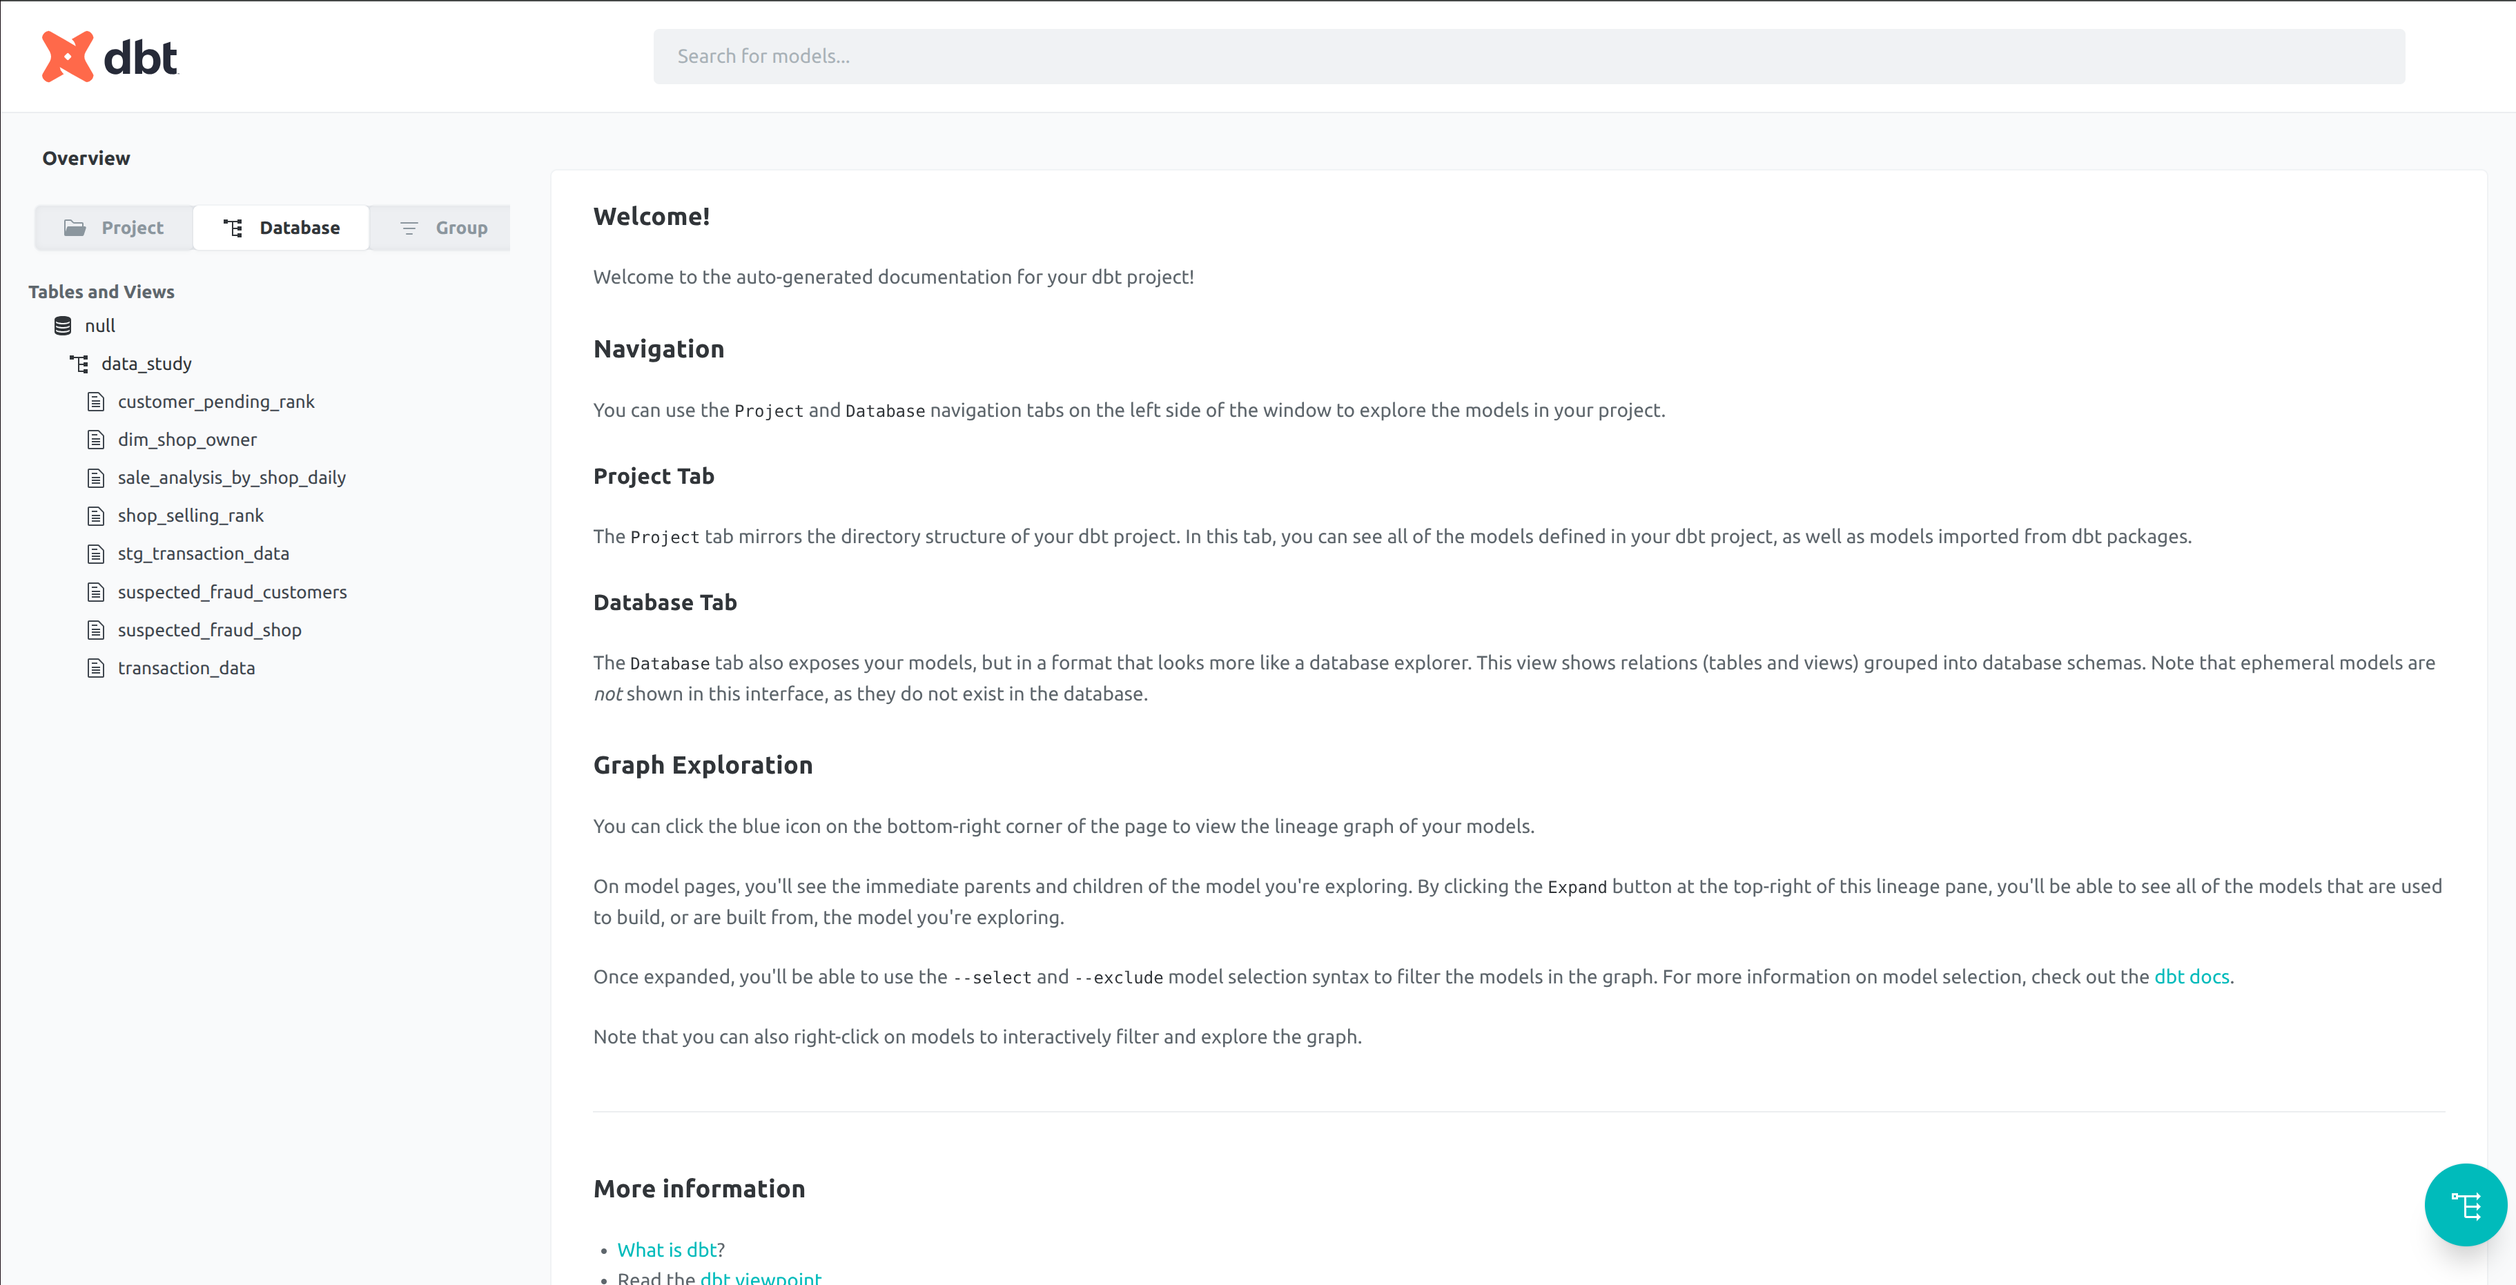
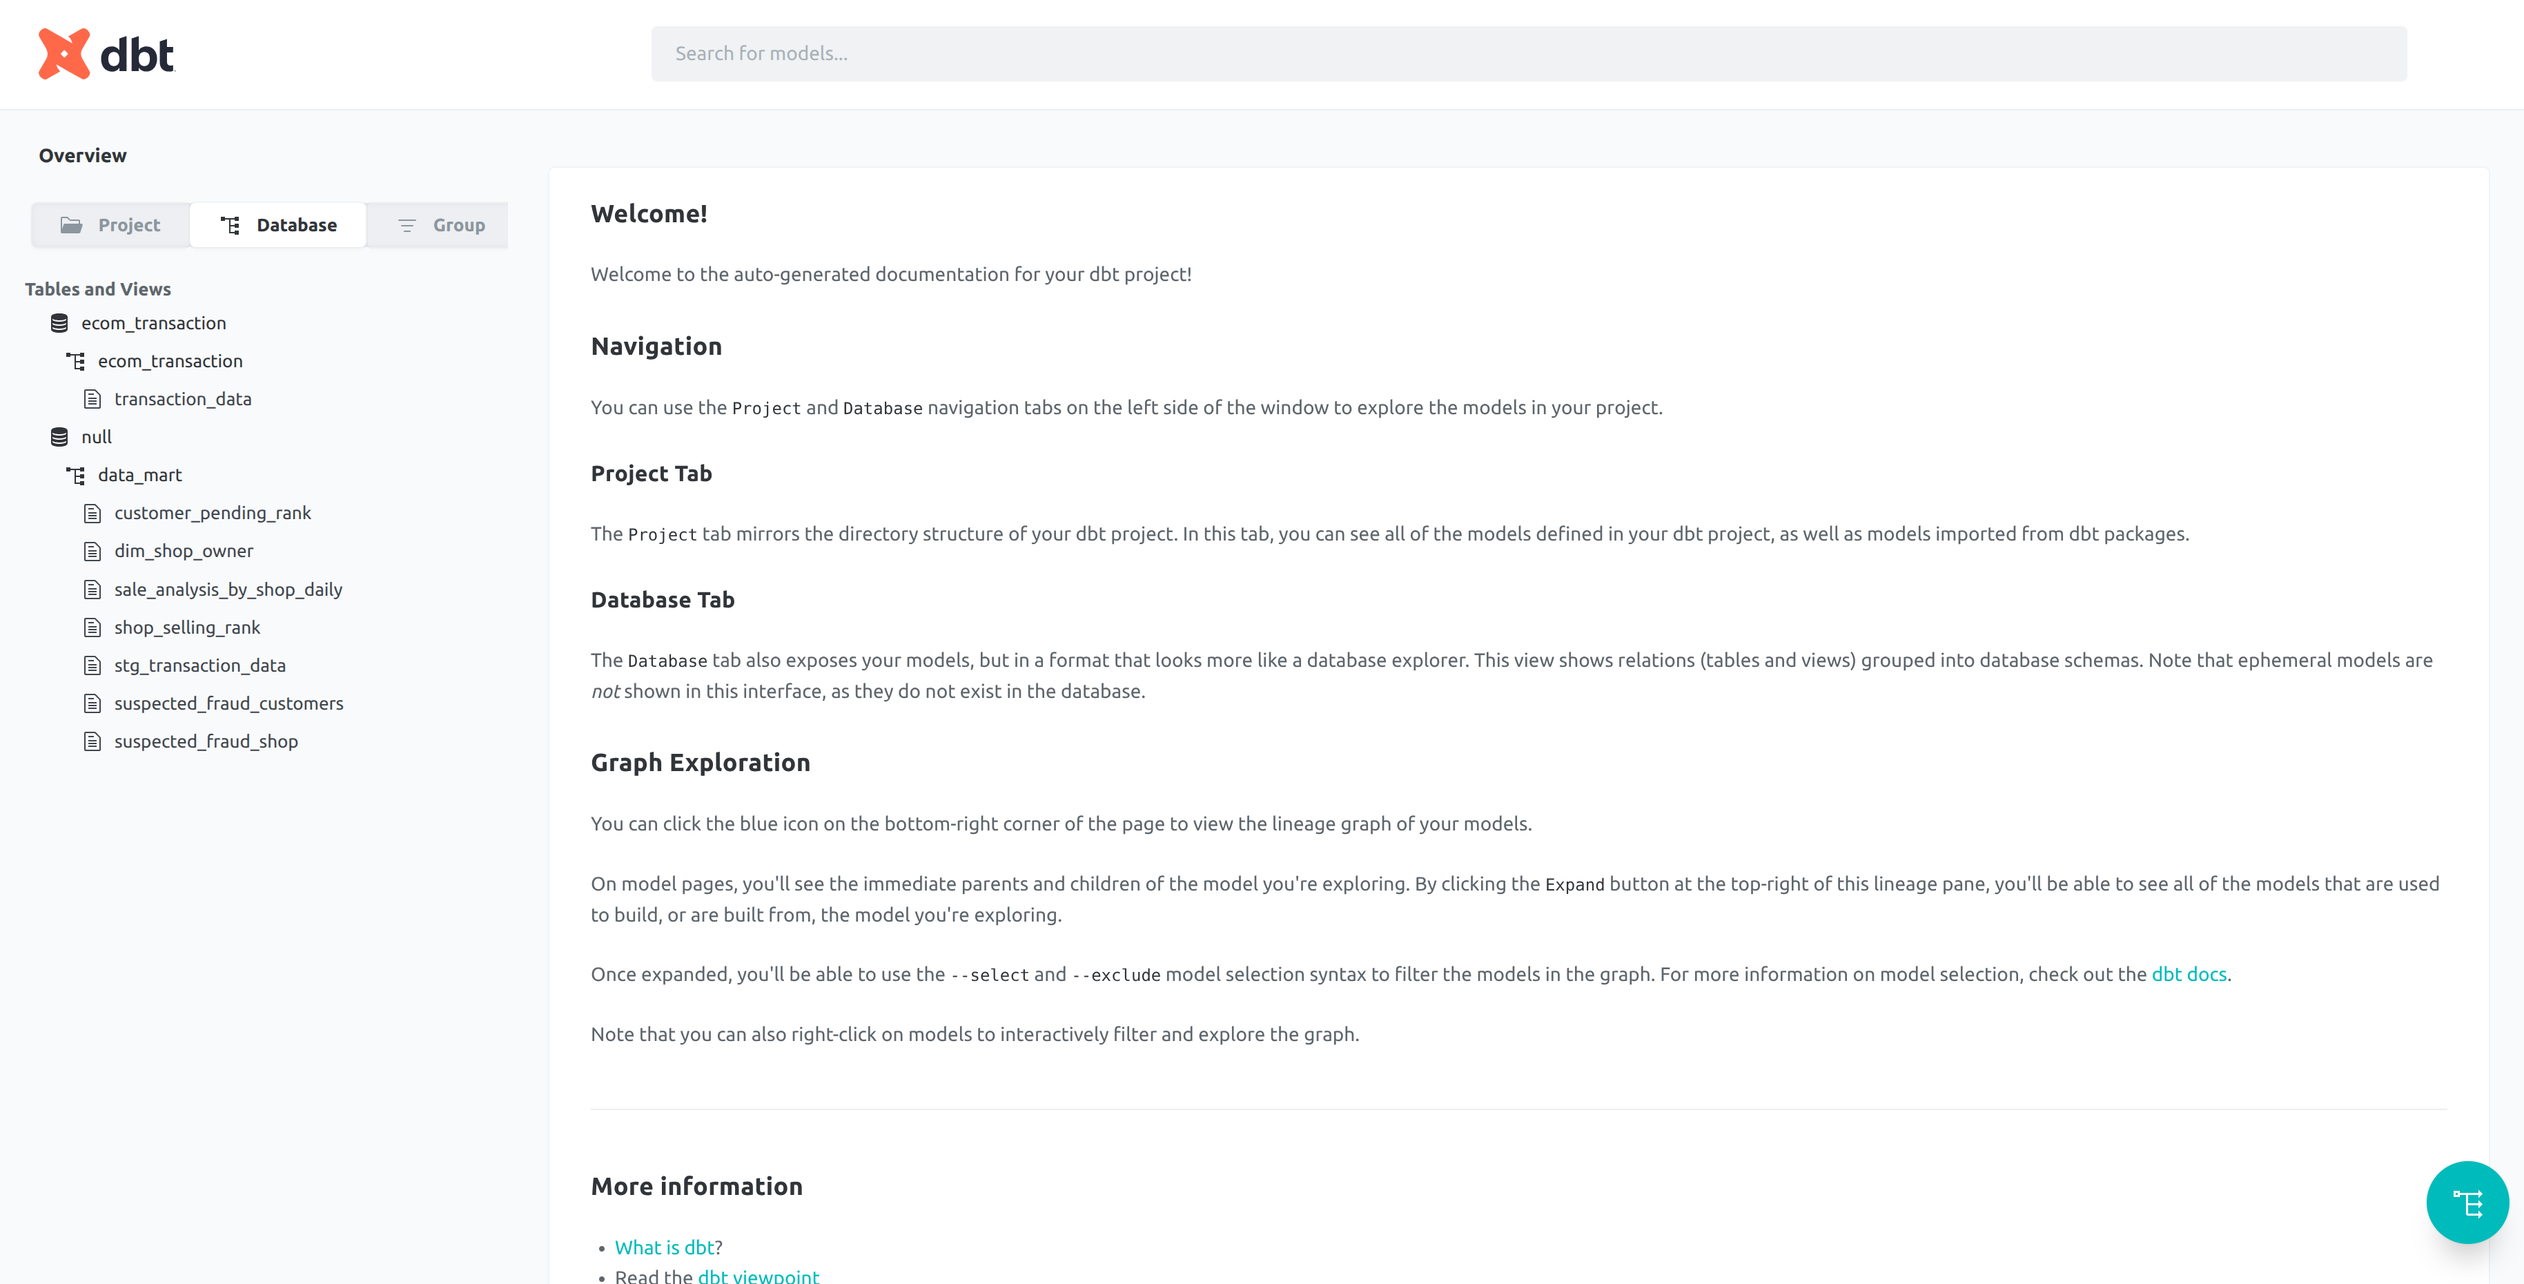
branch:main build docker compose for mysql database, update readme and code to suitable for mysql built by docker

diff --git a/import_raw_data.py b/import_raw_data.py
@@ -1,0 +1,138 @@
+import os
+import pandas as pd
+from sqlalchemy import create_engine
+from sqlalchemy.pool import NullPool
+import time
+from mysql.connector.errors import ProgrammingError
+from _001_config._00101_database_config import *
+
+# Các thông số kết nối
+DB_HOST = URL_MYSQL["properties"]["host"]
+DB_PORT = URL_MYSQL["properties"]["port"]
+DB_USER = URL_MYSQL["properties"]["user"]
+DB_PASSWORD = URL_MYSQL["properties"]["password"]
+DB_DATABASE = URL_MYSQL["properties"]["database"]
+DATA_FOLDER = "data_sample"
+
+def create_db_engine():
+    """Tạo engine kết nối tới MySQL container với cơ chế thử lại (retry)."""
+    # Sử dụng driver pymysql cho SQLAlchemy
+    db_url = f"mysql+pymysql://{DB_USER}:{DB_PASSWORD}@{DB_HOST}:{DB_PORT}/{DB_DATABASE}?charset=utf8mb4"
+    max_retries = 5
+    
+    for attempt in range(max_retries):
+        try:
+            print(f"[{time.strftime('%H:%M:%S')}] Đang thử kết nối MySQL (Lần {attempt + 1}/{max_retries})...")
+            engine = create_engine(
+                db_url,
+                pool_pre_ping=True,  # Kiểm tra connection trước khi sử dụng
+                pool_recycle=3600,   # Recycle connection sau 1 giờ
+                echo=False
+            )
+            
+            # Thử kết nối để kiểm tra ngay lập tức
+            with engine.connect() as connection:
+                print(f"[{time.strftime('%H:%M:%S')}] Kết nối thành công tới database: {DB_DATABASE}")
+                return engine
+        except Exception as e:
+            print(f"[{time.strftime('%H:%M:%S')}] Lỗi kết nối: {e}")
+            if attempt < max_retries - 1:
+                # Chờ 5 giây trước khi thử lại
+                time.sleep(5)
+            else:
+                raise ConnectionError("Không thể kết nối tới MySQL sau nhiều lần thử.")
+    return None
+
+
+def load_csv_to_mysql(engine):
+    """Đọc tất cả file CSV trong thư mục data_sample và đẩy vào MySQL."""
+    if not os.path.exists(DATA_FOLDER):
+        print(f"[{time.strftime('%H:%M:%S')}] LỖI: Thư mục '{DATA_FOLDER}' không tồn tại. Vui lòng tạo thư mục và thêm file CSV.")
+        return
+
+    print(f"[{time.strftime('%H:%M:%S')}] Bắt đầu quá trình tải dữ liệu từ thư mục '{DATA_FOLDER}'...")
+    
+    # Lấy danh sách file CSV và sắp xếp
+    csv_files = sorted([f for f in os.listdir(DATA_FOLDER) if f.endswith(".csv")])
+    
+    if not csv_files:
+        print(f"[{time.strftime('%H:%M:%S')}] CẢNH BÁO: Không tìm thấy file CSV nào trong thư mục '{DATA_FOLDER}'.")
+        return
+    
+    print(f"[{time.strftime('%H:%M:%S')}] Tìm thấy {len(csv_files)} file CSV để xử lý.")
+    
+    for filename in csv_files:
+        filepath = os.path.join(DATA_FOLDER, filename)
+        table_name = filename.replace(".csv", "").lower()
+        
+        print("-" * 50)
+        print(f"[{time.strftime('%H:%M:%S')}] Đang xử lý file: {filename} -> Tải vào bảng: {table_name}")
+        
+        try:
+            # Đọc CSV với encoding utf-8, nếu lỗi thử latin1
+            try:
+                df = pd.read_csv(filepath, encoding='utf-8')
+            except UnicodeDecodeError:
+                print(f"[{time.strftime('%H:%M:%S')}] Thử đọc với encoding latin1...")
+                df = pd.read_csv(filepath, encoding='latin1')
+            
+            # Chuẩn hóa tên cột
+            df.columns = [col.lower().strip().replace(' ', '_').replace('-', '_') for col in df.columns]
+            
+            # Loại bỏ các ký tự đặc biệt trong tên cột
+            df.columns = [''.join(c if c.isalnum() or c == '_' else '_' for c in col) for col in df.columns]
+            
+            print(f"[{time.strftime('%H:%M:%S')}] Số lượng dòng được đọc: {len(df)}")
+            print(f"[{time.strftime('%H:%M:%S')}] Các cột: {', '.join(df.columns)}")
+            
+            # Xử lý giá trị null
+            df = df.where(pd.notnull(df), None)
+            
+            start_time = time.time()
+            
+            # Tạo connection string để truyền trực tiếp vào to_sql
+            
+            db_url = f"mysql+pymysql://{DB_USER}:{DB_PASSWORD}@{DB_HOST}:{DB_PORT}/{DB_DATABASE}?charset=utf8mb4"
+            engine = create_engine(db_url)
+            
+            df.to_sql(
+                name=table_name,
+                con=engine,
+                if_exists='replace',
+                index=False,
+                chunksize=5000
+            )
+            
+            end_time = time.time()
+            
+            print(f"[{time.strftime('%H:%M:%S')}] HOÀN THÀNH. Đã tải {len(df)} dòng vào bảng '{table_name}'.")
+            print(f"[{time.strftime('%H:%M:%S')}] Thời gian tải: {end_time - start_time:.2f} giây.")
+
+        except ProgrammingError as e:
+            print(f"[{time.strftime('%H:%M:%S')}] LỖI SQL khi tải '{filename}': {e}")
+        except pd.errors.EmptyDataError:
+            print(f"[{time.strftime('%H:%M:%S')}] LỖI: File '{filename}' rỗng hoặc không có dữ liệu.")
+        except Exception as e:
+            print(f"[{time.strftime('%H:%M:%S')}] LỖI chung khi xử lý '{filename}': {e}")
+            import traceback
+            traceback.print_exc()
+
+if __name__ == "__main__":
+    try:
+        # Bước 1: Tạo engine kết nối
+        mysql_engine = create_db_engine()
+        
+        # Bước 2: Tải dữ liệu
+        if mysql_engine:
+            load_csv_to_mysql(mysql_engine)
+            print(f"\n[{time.strftime('%H:%M:%S')}] Quá trình tải dữ liệu hoàn tất.")
+            
+            # Đóng engine
+            mysql_engine.dispose()
+            
+    except ConnectionError as e:
+        print(f"\n[{time.strftime('%H:%M:%S')}] THẤT BẠI: {e}")
+    except Exception as e:
+        print(f"\n[{time.strftime('%H:%M:%S')}] Đã xảy ra lỗi không xác định: {e}")
+        import traceback
+        traceback.print_exc()

diff --git a/main.py b/main.py
@@ -1,6 +1,6 @@
 from fastapi import FastAPI, Depends, HTTPException
-from mysql_connection import get_db_connection
-from api_authentication import verify_credentials
+from _001_config._00101_database_config import get_db_connection
+from _002_utils.api_authentication import verify_credentials
 
 app = FastAPI()
 
@@ -16,7 +16,7 @@ def campaign_summary(user: str = Depends(verify_credentials)):
            sum(gmv) as total_gmv, 
            sum(case when rebate > 0 then 1 else 0 end) as total_rebate_vouchers,
            sum(rebate) as total_rebate_values 
-    from transaction_data
+    from ecom_transaction.transaction_data
     """
     cursor.execute(query)
     rows = cursor.fetchall()   # return all results
@@ -31,7 +31,7 @@ def read_customers_ranking(customer_id: int):
     conn = get_db_connection()
     cursor = conn.cursor(dictionary=True)
 
-    query = "SELECT * FROM customer_pending_rank WHERE customerID = %s"
+    query = "SELECT * FROM data_mart.customer_pending_rank WHERE customerID = %s"
     cursor.execute(query, (customer_id,))
     rows = cursor.fetchall()   # return all results
 
@@ -49,7 +49,7 @@ def read_shops_ranking(shop_id: int):
     conn = get_db_connection()
     cursor = conn.cursor(dictionary=True)
 
-    query = "SELECT * FROM shop_selling_rank WHERE shop_id = %s"
+    query = "SELECT * FROM data_mart.shop_selling_rank WHERE shop_id = %s"
     cursor.execute(query, (shop_id,))
     rows = cursor.fetchall()   # return all results
 
@@ -67,7 +67,7 @@ def read_fraud_customer(customer_id: int):
     conn = get_db_connection()
     cursor = conn.cursor(dictionary=True)
 
-    query = "SELECT * FROM suspected_fraud_customers WHERE customer_id = %s"
+    query = "SELECT * FROM data_mart.suspected_fraud_customers WHERE customer_id = %s"
     cursor.execute(query, (customer_id,))
     rows = cursor.fetchall()   # return all results
 
@@ -85,7 +85,7 @@ def read_fraud_shop(shop_id: int):
     conn = get_db_connection()
     cursor = conn.cursor(dictionary=True)
 
-    query = "SELECT * FROM suspected_fraud_shop WHERE shop_id = %s"
+    query = "SELECT * FROM data_mart.suspected_fraud_shop WHERE shop_id = %s"
     cursor.execute(query, (shop_id,))
     rows = cursor.fetchall()   # return all results
 

diff --git a/_001_config/_00101_database_config.py b/_001_config/_00101_database_config.py
@@ -1,0 +1,21 @@
+import mysql.connector
+
+URL_MYSQL = {
+    "url": "jdbc:mysql://localhost:3307/ecom_transaction",
+    "properties": {
+        "host": "localhost",
+        "port": 3307,
+        "user": "root",
+        "password": "123", 
+        "database": "ecom_transaction"
+    }
+}
+def get_db_connection():
+    conn = mysql.connector.connect(
+        host="localhost",        
+        port=3307,
+        user="root",            
+        password="123",
+        database="ecom_transaction"    
+    )
+    return conn

diff --git a/_002_utils/api_authentication.py b/_002_utils/api_authentication.py
@@ -1,6 +1,6 @@
 from fastapi import Depends, HTTPException, status
 from fastapi.security import HTTPBasic, HTTPBasicCredentials
-from logger import logger
+from _002_utils.logger import logger
 
 security = HTTPBasic()
 

diff --git a/README.md b/README.md
@@ -18,6 +18,7 @@ The dataset was collected from a discount campaign on an e-commerce platform, co
 After gathering the campaign transaction data, the following steps were implemented:
 
 ### ⚙ Overview of the Implementation Steps:
+- Built MySQL database by using docker-compose.
 - Used **DBT (Data Build Tool)** to process and transform data from the raw transaction table (tbl transaction_data):
     - Transformed into a table storing shop and shop owner information (**tbl dim_shop_owner**).
     - Transformed into a table storing customer information such as total spending, ranking, and classification (Gold, Silver, Bronze) (**tbl customer_pending_rank**).
@@ -34,34 +35,72 @@ After gathering the campaign transaction data, the following steps were implemen
   
 ## Detailed Project Demo Guide
 
-1. First, clone this repository from GitHub to your local machine. Then, set up a MySQL database (version 8.0) running on localhost:3306. Next, create a database named data_study and import the transaction_data.csv file from the data_sample folder into it.
-
-![importdata](./image/importdata.png)
-
-2. Next, create a new virtual environment to prepare for the demo. Note that the demo will be conducted on an ***Ubuntu environment using Anaconda***. If you are working on a different operating system or environment, please adapt the commands accordingly.
-
+1. First, clone this repository from GitHub to your local machine. Next, create a new virtual environment to prepare for the demo. Note that the demo will be conducted on an ***Using Anaconda***. If you are working on a different operating system or environment, please please skip this step. 
 ```bash
+# create evironment
 conda create --name demo-01 python=3.10 -y
 conda activate demo-01
 ```
-3. Then, import the required libraries.
+
+2. Then, import the required libraries.
 ```bash
+# import lib
 pip install -r requirements.txt
 ```
-4. Open a new terminal, set the dbt profile configuration, and then run the following commands:
+
+3. Then, run docker-compose file to set up a MySQL database (version 8.0). Next, run the file import_raw_data.py to prepare raw data for demo (use DBeaver to check the inserted data)
 ```bash
-### Manually create the .dbt directory if it doesn’t exist, or append the profiles.yml content if it already does.
-mkdir -p ~/.dbt
-### Add profiles.yml (Update the file path accordingly)
-cp /home/minhkhoi/khoidata/Github/Customer-Transaction-Analytics-Data-Pipeline/profiles.yml ~/.dbt/
+# Run docker-compose file on terminal
+docker-compose -f docker_compose.yml up -d
+
+# Run file insert raw data to MySQL 
+python import_raw_data.py
 ```
 
+4. Connect to Mysql database by using DBeaver tools (connection information is in _00101_database_config.py file). Then, run code SQL to create schema data_mart (pass: 123)
+
 ```bash
-### Verify using the command
+# Code create schema data_mart
+create database data_mart;
+```
+![mysql_connection](./image/mysql_connection.png)
+
+5. Open a new terminal, set the dbt profile configuration, and then run the following commands:
+```bash
+# Manually create the .dbt directory and set up profile.yml file
+mkdir -p ~/.dbt
+# open folder dbt
 cd ~/.dbt/ && code .
 ```
 
-5. Return to the original terminal and run the following commands:
+```bash
+# create profile.yml and add this content into profile.yml
+customer_online_transactions_analytics:
+  outputs:
+    dev:
+      type: mysql
+      server: localhost 
+      port: 3307
+      schema: data_mart  
+      database: data_mart 
+      username: root
+      password: "123"
+      driver: MySQL ODBC 8.0 ANSI Driver
+
+    prod:
+      type: mysql
+      server: localhost
+      port: 3307
+      schema: data_mart
+      database: data_mart
+      username: root
+      password: "123"
+      driver: MySQL ODBC 8.0 ANSI Driver
+
+  target: dev
+```
+
+6. Return to the original terminal and run the following commands:
 ```bash
 cd customer_online_transactions_analytics ### Navigate to the folder where dbt is running.
 dbt run
@@ -70,9 +109,9 @@ dbt run
 
 ![dbt-success](./image/dbt-success.png)
 
-![new-tbl](./image/new-tbl.png)
+![dbt_run_success](./image/dbt_run_success.png)
 
-6. Continue by running the commands to open the DBT docs, where you can review the logic used to create the tables.
+7. Continue by running the commands to open the DBT docs, where you can review the logic used to create the tables (http://localhost:8080)
 ```bash
 dbt docs generate;
 dbt docs serve;
@@ -81,7 +120,7 @@ dbt docs serve;
 
 ![lineage-graph](./image/lineage-graph.png)
 
-7. Next, run the commands to start FastAPI. You can open a separate terminal to enter the command or click "Ctrl + C" to continue this terminal. However, If you countinue to use this terminal, you must enter the command "cd .." before entering the below command
+8. Next, run the commands to start FastAPI. You can open a separate terminal to enter the command or click "Ctrl + C" to continue this terminal. However, If you countinue to use this terminal, you must enter the command "cd .." before entering the below command
 ```bash
 uvicorn main:app --host 0.0.0.0 --port 8000 --reload
 ```
